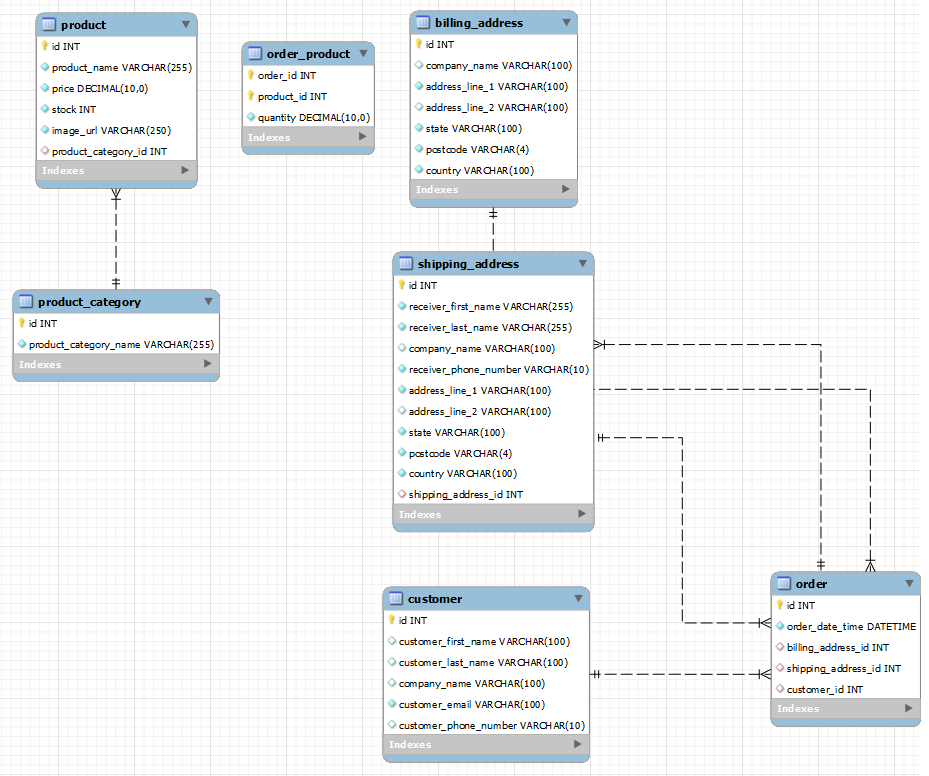
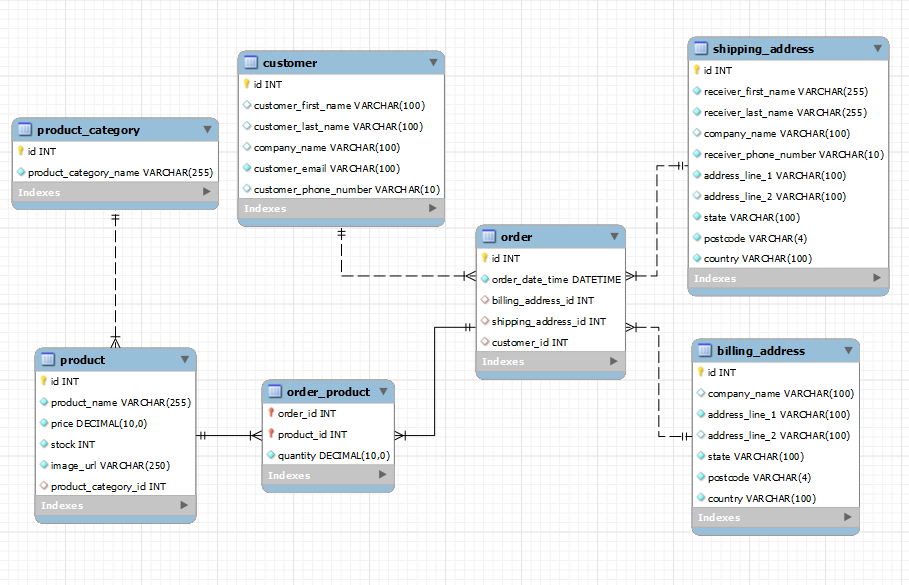
Fixed erroneous inter-table relationship, updated ERD

diff --git a/models/Shipping_Address.js b/models/Shipping_Address.js
@@ -58,13 +58,13 @@ ShippingAddress.init(
       type: DataTypes.STRING(100),
       allowNull: false,
     },
-    shipping_address_id: {
-      type: DataTypes.INTEGER,
-      references: {
-        model: "order",
-        key: "shipping_address_id"
-      },
-    },
+    // shipping_address_id: {
+    //   type: DataTypes.INTEGER,
+    //   references: {
+    //     model: "order",
+    //     key: "shipping_address_id"
+    //   },
+    // },
   },
   {
     sequelize,
